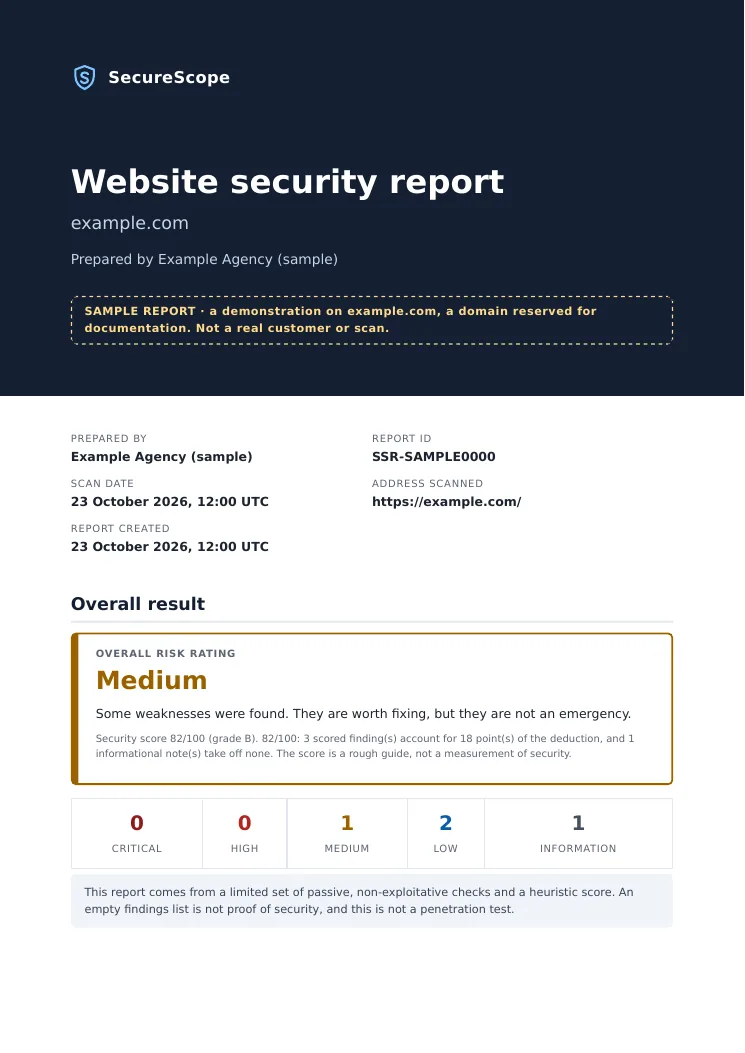
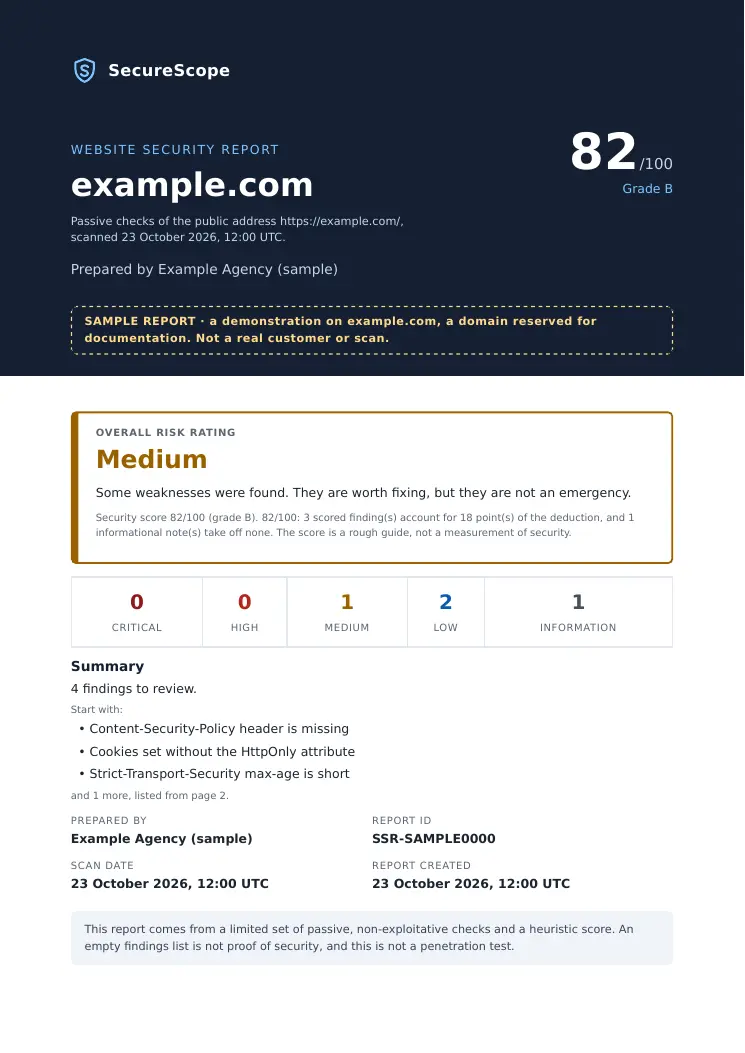
Dark-mode pass: theme applied before first paint, wider theme tests, fresh sample cover
Audit of both themes (docs/dark-mode-audit.md): tokens pass contrast, 18 pages x 2 themes x 2 widths have
no axe violations or overflow. Fixes the flash of the wrong theme (public/theme-init.js), adds dark/light
accessibility e2e for six more signed-in pages and four public pages, and regenerates the home-page sample cover.

Claude-Session: https://claude.ai/code/session_016jr1X3ccQ92y8wFJLEAMCF

diff --git a/frontend/src/test/themeinit.test.ts b/frontend/src/test/themeinit.test.ts
@@ -1,0 +1,66 @@
+import { afterEach, beforeEach, describe, expect, it, vi } from "vitest";
+import html from "../../index.html?raw";
+import script from "../../public/theme-init.js?raw";
+import themeSource from "../theme.ts?raw";
+
+function run(): void {
+  new Function(script)();
+}
+
+describe("theme-init.js (applies the saved theme before first paint)", () => {
+  beforeEach(() => {
+    document.head.innerHTML = '<meta name="theme-color" content="#050505">';
+    document.documentElement.removeAttribute("data-theme");
+    window.localStorage.clear();
+  });
+  afterEach(() => vi.restoreAllMocks());
+
+  it("applies a saved light theme and the matching toolbar colour", () => {
+    window.localStorage.setItem("securescope-theme", "light");
+    run();
+    expect(document.documentElement).toHaveAttribute("data-theme", "light");
+    expect(document.querySelector('meta[name="theme-color"]')).toHaveAttribute(
+      "content",
+      "#eef3f8",
+    );
+  });
+
+  it("applies a saved dark theme", () => {
+    window.localStorage.setItem("securescope-theme", "dark");
+    run();
+    expect(document.documentElement).toHaveAttribute("data-theme", "dark");
+    expect(document.querySelector('meta[name="theme-color"]')).toHaveAttribute(
+      "content",
+      "#050505",
+    );
+  });
+
+  it("leaves the page to follow the system when nothing valid is saved", () => {
+    run();
+    expect(document.documentElement).not.toHaveAttribute("data-theme");
+    window.localStorage.setItem("securescope-theme", "<script>");
+    run();
+    expect(document.documentElement).not.toHaveAttribute("data-theme");
+  });
+
+  it("does not throw when storage is blocked", () => {
+    vi.spyOn(Storage.prototype, "getItem").mockImplementation(() => {
+      throw new Error("blocked");
+    });
+    expect(run).not.toThrow();
+    expect(document.documentElement).not.toHaveAttribute("data-theme");
+  });
+
+  it("uses the same storage key and colours as the app", () => {
+    expect(themeSource).toContain('"securescope-theme"');
+    expect(themeSource).toContain('"#eef3f8"');
+    expect(themeSource).toContain('"#050505"');
+  });
+
+  it("is loaded from index.html before the app, as a same-origin file (the CSP forbids inline scripts)", () => {
+    expect(html).toContain('<script src="/theme-init.js"></script>');
+    expect(html.indexOf("/theme-init.js")).toBeLessThan(
+      html.indexOf('type="module"'),
+    );
+  });
+});

diff --git a/frontend/e2e/accessibility.e2e.ts b/frontend/e2e/accessibility.e2e.ts
@@ -30,6 +30,23 @@ test("public pages have no serious or critical accessibility violations", async 
 });
 
 for (const scheme of ["dark", "light"] as const) {
+  test(`agency and legal pages have no serious or critical accessibility violations (${scheme} theme)`, async ({
+    page,
+  }) => {
+    await page.emulateMedia({ colorScheme: scheme });
+    for (const route of [
+      "#/agency-features",
+      "#/impressum",
+      "#/privacy",
+      "#/terms",
+    ]) {
+      await page.goto(`/${route}`);
+      await expect(page.getByRole("heading").first()).toBeVisible();
+      await expect(page.locator("html")).toHaveAttribute("data-theme", scheme);
+      expect(await seriousViolations(page), `${scheme} ${route}`).toEqual([]);
+    }
+  });
+
   test(`signed-in pages have no serious or critical accessibility violations (${scheme} theme)`, async ({
     page,
   }) => {
@@ -43,6 +60,11 @@ for (const scheme of ["dark", "light"] as const) {
       "#/findings",
       "#/history",
       "#/team",
+      "#/account",
+      "#/audit",
+      "#/analytics",
+      "#/health",
+      "#/clients",
     ]) {
       await page.goto(`/${route}`);
       await expect(page.getByRole("button", { name: "Menu" })).toBeVisible();
@@ -59,6 +81,19 @@ test("the theme can be switched by the user", async ({ page }) => {
   await register(page, uniqueEmail("toggle"));
   await openMenu(page);
   await page.getByRole("button", { name: "Switch to light theme" }).click();
+  await expect(page.locator("html")).toHaveAttribute("data-theme", "light");
+});
+
+test("a saved theme is applied before the app loads, so the other theme never flashes", async ({
+  page,
+}) => {
+  await page.emulateMedia({ colorScheme: "dark" });
+  await page.addInitScript(() =>
+    window.localStorage.setItem("securescope-theme", "light"),
+  );
+  // With the app bundle blocked, only the small script in the page head can have set the theme.
+  await page.route("**/assets/index-*.js", (route) => route.abort());
+  await page.goto("/");
   await expect(page.locator("html")).toHaveAttribute("data-theme", "light");
 });
 

diff --git a/frontend/public/theme-init.js b/frontend/public/theme-init.js
@@ -1,0 +1,16 @@
+// Applies the saved theme before the page is painted, so a person who chose a theme that differs from
+// their system setting does not see the other one flash first. It only reads the saved choice; with no
+// choice, the page follows the system setting through CSS. Keep the key in step with src/theme.ts.
+(function () {
+  try {
+    var saved = window.localStorage.getItem("securescope-theme");
+    if (saved === "light" || saved === "dark") {
+      document.documentElement.setAttribute("data-theme", saved);
+      var meta = document.querySelector('meta[name="theme-color"]');
+      if (meta)
+        meta.setAttribute("content", saved === "light" ? "#eef3f8" : "#050505");
+    }
+  } catch (e) {
+    /* storage can be blocked; the app then follows the system setting */
+  }
+})();

diff --git a/frontend/src/pages/Landing.tsx b/frontend/src/pages/Landing.tsx
@@ -581,7 +581,7 @@ export default function Landing() {
                 width="745"
                 height="1053"
                 loading="lazy"
-                alt="First page of the sample website security report for example.com: title, scan details and an overall risk rating of Medium"
+                alt="First page of the sample website security report for example.com: the host, the score, an overall risk rating of Medium and a short summary"
               />
               <span className="landing-pdf-hint" aria-hidden="true">
                 Open the PDF

diff --git a/frontend/index.html b/frontend/index.html
@@ -9,6 +9,7 @@
     />
     <meta name="color-scheme" content="dark light" />
     <meta name="theme-color" content="#050505" />
+    <script src="/theme-init.js"></script>
     <link rel="icon" type="image/svg+xml" href="/favicon.svg" />
     <link rel="manifest" href="/manifest.webmanifest" />
     <link rel="apple-touch-icon" href="/apple-touch-icon.png" />

diff --git a/docs/dark-mode-audit.md b/docs/dark-mode-audit.md
@@ -1,0 +1,29 @@
+# Dark and light theme audit
+
+Date: 26 Oct 2026. Scope: both themes on every page. Checked in a real browser (Chromium) against a local copy of the app with seeded scan data, never against the live site.
+
+## What was checked
+
+| Check                                                                                                                                                                        | Result                                                                                                                                                                                       |
+| ---------------------------------------------------------------------------------------------------------------------------------------------------------------------------- | -------------------------------------------------------------------------------------------------------------------------------------------------------------------------------------------- |
+| Colour tokens against the surfaces they sit on (text, muted text, accent, status and severity colours) in both themes                                                        | All pass WCAG AA for text. Lowest is 4.9:1 (the "ok" green on the light page background). Borders and controls pass the 3:1 rule for interface parts                                         |
+| Hard-coded colours outside the token blocks (76 found by search)                                                                                                             | All are either token definitions for another theme, chart palette entries with a dark and a light value, shadows, or fallbacks inside `var()`. None is an unthemed text or background colour |
+| Axe accessibility rules (WCAG 2.1 A and AA, every impact level, not only serious) on 18 pages, in dark and light, at 1280 and 390 pixels wide, signed in with real scan data | 0 violations                                                                                                                                                                                 |
+| Sideways scrolling on the same pages and widths                                                                                                                              | None                                                                                                                                                                                         |
+| Screenshots of every page in both themes, read by eye                                                                                                                        | No unreadable text, invisible borders or wrong-theme images found                                                                                                                            |
+
+## Gaps found and fixed
+
+1. **Flash of the wrong theme.** A person whose saved choice differs from their system setting (system dark, saved light) saw the other theme for a moment on every load, because the choice was only applied once the app had started. A 12-line script, `public/theme-init.js`, now applies it from the page head before anything is painted. It only reads the saved choice; with no choice the page still follows the system setting through CSS. It is a same-origin file because the content security policy forbids inline scripts. Verified by blocking the app bundle and checking the theme is already set (all four system and saved combinations); 6 unit tests; an end-to-end test that fails without the script (checked by removing it).
+2. **Accessibility tests did not cover six signed-in pages and four public pages in dark mode.** The end-to-end checks now include Account, Audit log, Analytics, Health, Clients, the agency features page and the three legal pages, in both themes.
+3. **The home page's sample report preview was the old cover.** It is regenerated from the new PDF cover (see the PDF cover change on 26 Oct); its description was updated to match.
+
+## Not changed, on purpose
+
+- No colours or layouts were redesigned: nothing in the audit needed it.
+- The service worker does not cache `theme-init.js`; offline, the app still applies the theme once it starts.
+- The larger "dark editorial design system" project (shared components, screenshots at four widths for every page) stays on the roadmap as its own piece of work.
+
+## Status
+
+Local development, owned or authorised sites, controlled external pilot: READY. No unresolved security concern: the change adds one static same-origin script that reads a single local-storage key and writes two attributes; it handles blocked storage and ignores any value other than `light` or `dark`.

diff --git a/docs/ROADMAP.md b/docs/ROADMAP.md
@@ -36,6 +36,8 @@ Written 23 October 2026. Ordered by what matters most. "You" means the site owne
   footer. The home-page sample PDF was regenerated. Still open: a table of contents for very long reports.
 - **Dark editorial design system** across all pages (brief section 5): shared tokens and components, then apply page by
   page. Do this as its own project with screenshots at four widths, not mixed into feature work.
+  The theme audit of 26 Oct (`docs/dark-mode-audit.md`) found both themes sound and fixed the flash of the wrong theme; this project is
+  now about consistency of components, not about dark mode being broken.
 - **Scan comparison** should say when two scans are not comparable (different checks ran, a check could not run).
 - **Per-rule test audit.** Severity and score are pinned by tests; each of the 40 rules should also have a positive,
   a negative and an edge-case test, and its fix text re-read against the rule.
